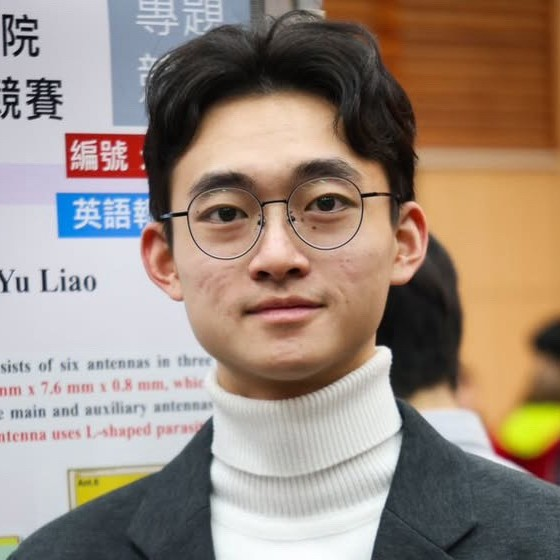
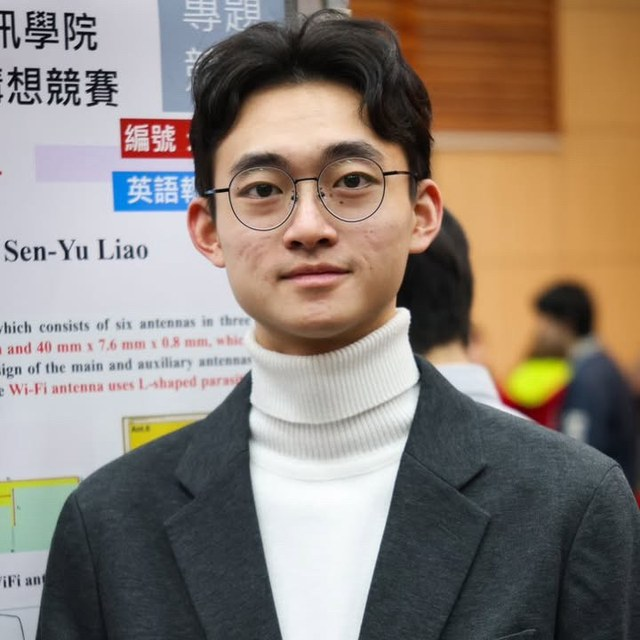
Reframe the portrait and let the centring follow the window
The avatar frame had a width in rem and a height still in px, so scaling the
type up turned the square into a 236x210 letterbox and object-fit: cover took
the difference off the top of the head. The height is now in rem too, and the
image is recut from the full-length photo so the subject sits smaller in the
frame with clear space above the hair.

The mirror column no longer switches on at a breakpoint. It grows with the
window instead, from nothing at about 1060px to its full width by about 1340px,
so the reading column moves toward the centre as space allows rather than
jumping. The profile column does not move.

Claude-Session: https://claude.ai/code/session_01GxXKT5jtUn6YYtfm9aU5qv

diff --git a/index.html b/index.html
@@ -53,19 +53,15 @@
       width: min(1400px, 94%);
       margin: 0 auto;
       display: grid;
-      grid-template-columns: 15.5rem minmax(0, 42rem) 15.5rem;
+      grid-template-columns: 15.5rem minmax(0, 42rem) clamp(0px, 100vw - 1060px, 15.5rem);
       justify-content: center;
       gap: 64px;
       align-items: start;
       padding: 56px 0 80px;
     }
 
-    /* The mirror only pays for itself while the reading column stays wide
-       enough. Below this it would squeeze the text to buy symmetry, so the
-       layout drops back to the plain profile-plus-content pair. */
-    @media (max-width: 1360px) {
-      .shell { grid-template-columns: 15.5rem minmax(0, 1fr); }
-    }
+    /* The mirror grows with the window instead of switching on at a breakpoint,
+       so narrow screens keep their reading width and wide ones sit dead centre. */
 
     /* The profile column is centred on itself: a small portrait with the name
        directly beneath it, which is how a personal page introduces someone. */
@@ -73,7 +69,7 @@
 
     .avatar {
       width: 13.125rem;
-      height: 210px;
+      height: 13.125rem;
       object-fit: cover;
       border-radius: 4px;
       border: 1px solid var(--rule);
